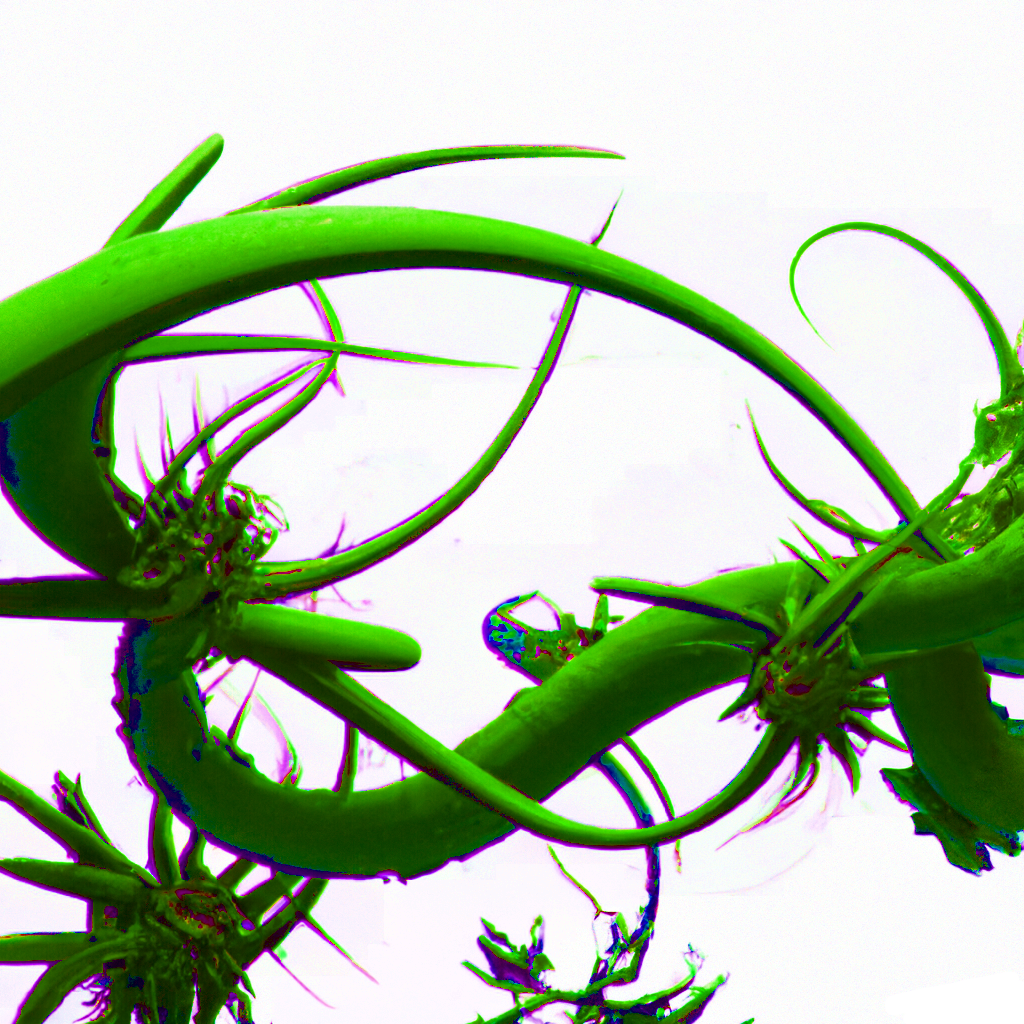
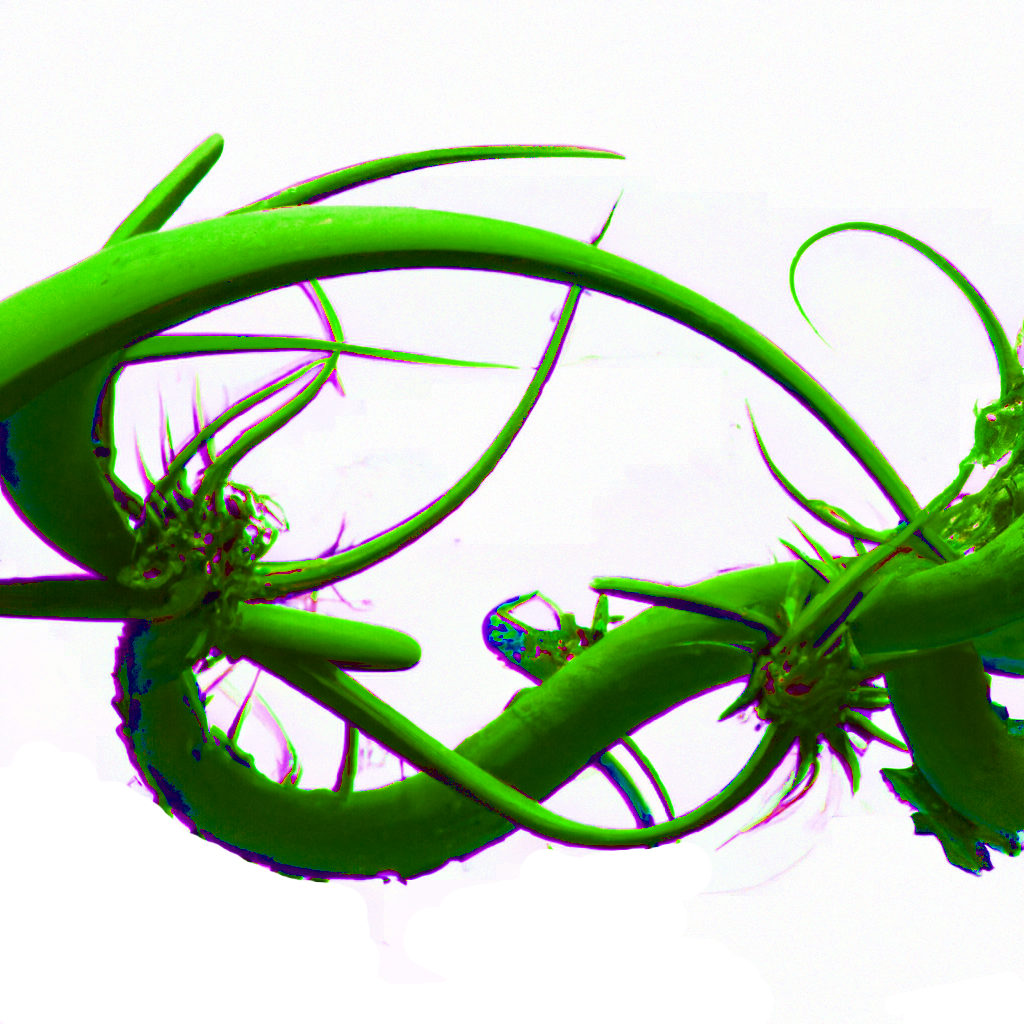
added some background images to header

Changed region(s): [[0.0, 0.75, 0.3438, 1.0], [0.4375, 0.8125, 0.7188, 1.0], [0.3438, 0.9375, 0.375, 0.9688]]

diff --git a/style.css b/style.css
@@ -28,7 +28,10 @@ body {
     margin: 0;
     height: 477px;
     padding-bottom: 32px;
-    background-image: linear-gradient(black, rgba(255,0,0,0));
+    background-image: url(images/vines.png), url(images/vines-1.png), linear-gradient(black, rgba(255,0,0,0));
+    background-position: left center, right center;
+    background-size: contain, contain;
+    background-repeat: no-repeat, no-repeat;
 }
 
 .container-head {
@@ -51,6 +54,7 @@ body {
     height: 100%;
     background-image: linear-gradient(azure, rgba(128, 18, 18, 0));
     border-radius: 24px;
+    background-color: white;
     /*box-shadow: 0px 0px 8px 1px black;*/
 
 }
